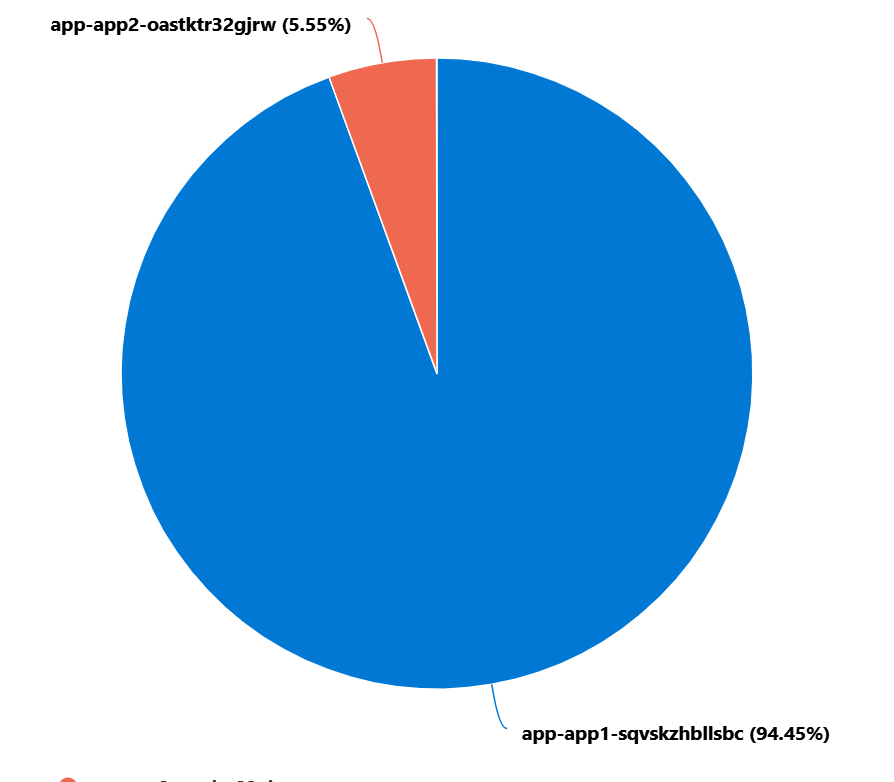
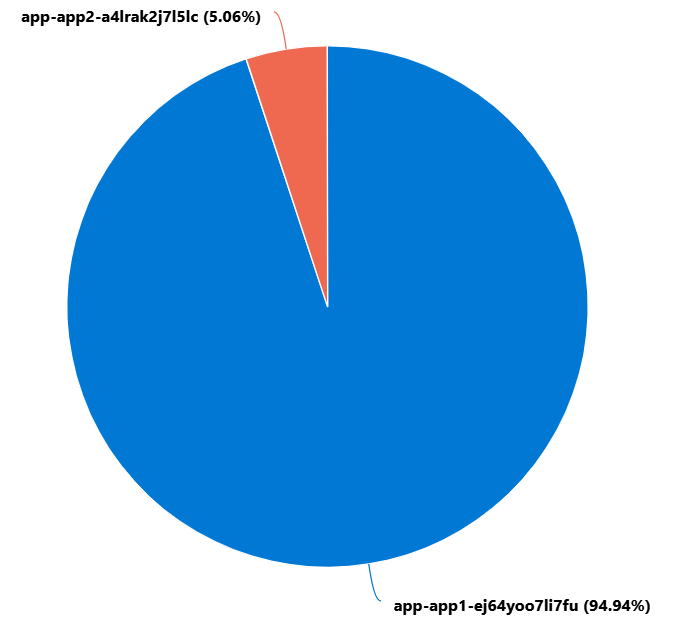
updated policy and test results

diff --git a/README.md b/README.md
@@ -30,6 +30,7 @@ The infrastructure we are creating focusses on
 - App Insights to log the function App telemetry
 
 The bicep deployment deploys the code to the Function Apps as well as all the necessary configuration of APIM. No manual configuration or scripts are needed to create a fully functioning deployment.
+Deployment takes approximately 10 minutes and creates/configures 16 Azure services.
 
 ## APIM Policy
 
@@ -55,6 +56,8 @@ In order to test the traffic splitting we need to send a lot of traffic through 
 
 > The Azure Load Testing service is not included in the bicep files as it is currently in preview with some notable limitations in automating.
 
+To create the load test in your own subscription, use the Portal and the JMX file in this repo. Replace the value of `HTTPSampler.domain` in the XML file for the endpoint of your APIM.
+
 ## The results
 
 The following Log Analytics query can be run to show the traffic split
@@ -68,12 +71,12 @@ render piechart
 
 | AppRoleName | count_ |
 | ----------- | ------ |
-| app-app1-sqvskzhbllsbc | 16,912 |
-| app-app2-oastktr32gjrw | 993 |
+| app-app1-sqvskzhbllsbc | 68,073 |
+| app-app2-oastktr32gjrw | 3,626 |
 
 <img src="trafficsplitresultspie.png" width=50% height=50%>
 
-We can see that we didn't miss the mark by much. After sending nearly 18000 requests, we aimed to split **5%** of the traffic away and have successfully separated exactly **5.55%** of the traffic to App2.
+We can see that we didn't miss the mark by much. After sending over 70000 requests, we aimed to split **5%** of the traffic away and have successfully separated exactly **5.06%** of the traffic to App2.
 
 ## Further Reading
 
